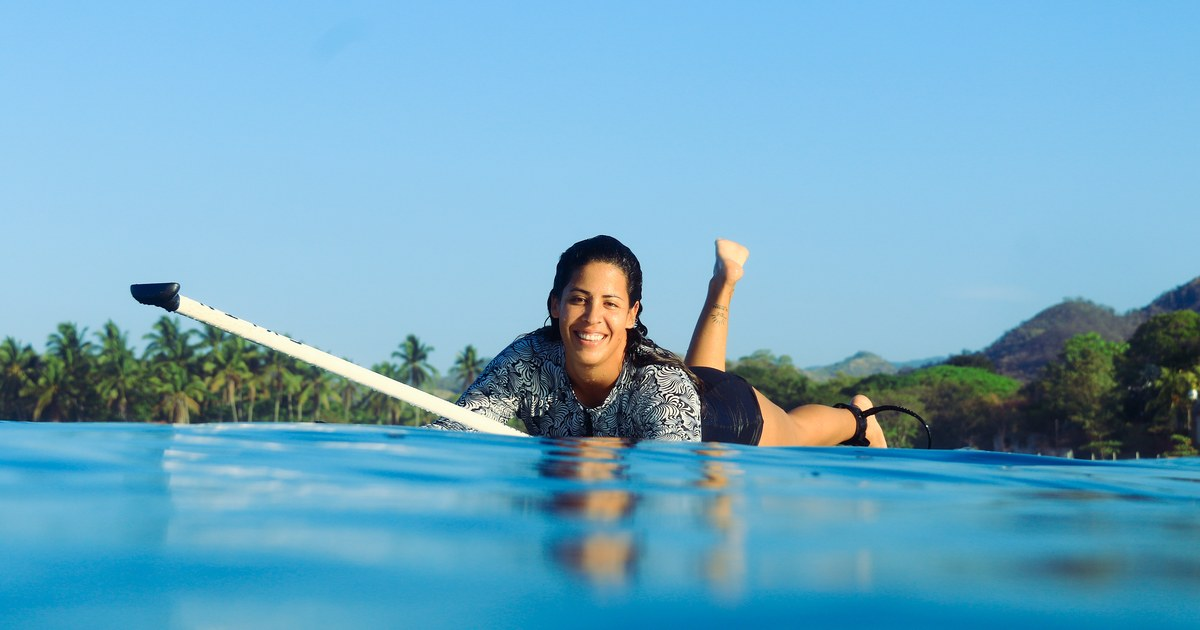
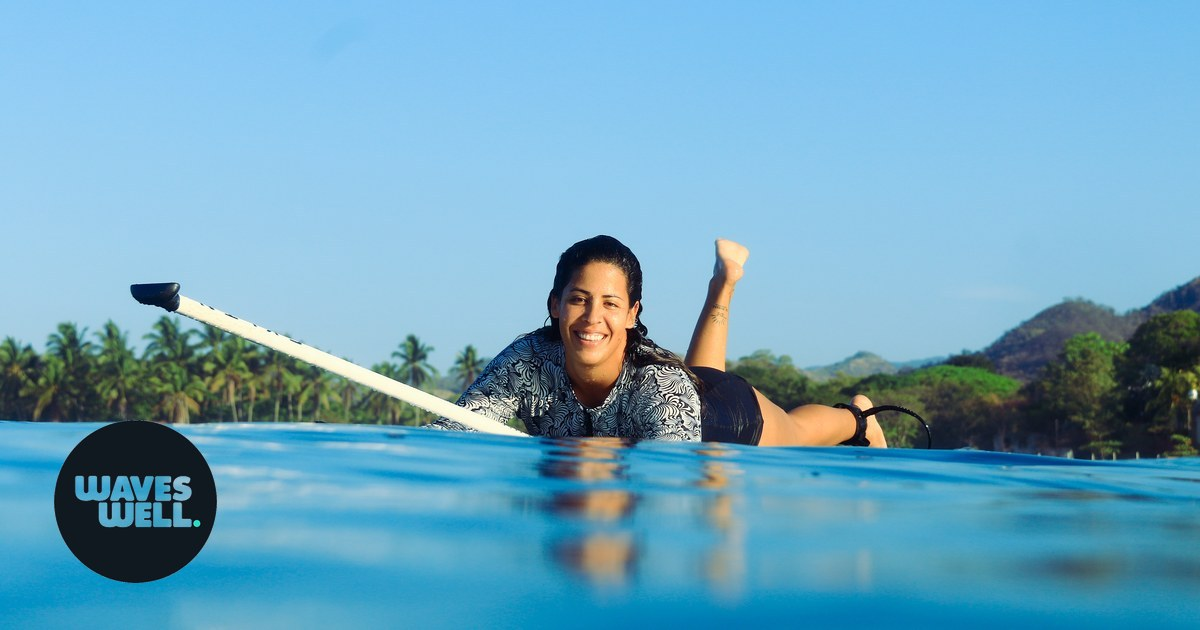
Findability: target SUP surf retreats, SUP surf rentals and stand up paddle in El Salvador
The site always wrote "stand up paddle" in full and never used the acronym
people actually type, so "SUP surf retreat" and "SUP rental" appeared zero
times in visible copy. Titles now lead with the acronym while the H1s keep
the spelled out form, so each page carries both. Meta descriptions, keyword
lists, one sentence of body copy per page and the internal link text follow.

The rentals side was the weakest of the three. The coaching page now names
the rental in its title, its pricing heading and its intro, the rental
service carries a real Offer at 75 dollars instead of a price buried in
prose, and a new FAQ answers whether you can rent without booking coaching.

llms.txt and llms-full.txt gain a short section that answers the three
questions directly, in the phrasing people use, which is what an assistant
quotes back.

Favicons were broken: dark artwork on a dark square, effectively invisible
at every size. They are rebuilt from the brand monogram, white on ink, and
are legible down to 16 pixels. The social share card gains the circular
lockup so a shared link is recognisable, and Google's search logo now
points at an opaque version rather than a transparent PNG.

Sitemap lastmod refreshed.

Claude-Session: https://claude.ai/code/session_01CtD6iaYUpoj4nYJVqYvbGF

Changed region(s): [[0.0308, 0.6635, 0.185, 0.9349]]

diff --git a/es/coaching.html b/es/coaching.html
@@ -4,9 +4,9 @@
 <meta charset="UTF-8">
 <meta name="viewport" content="width=device-width, initial-scale=1.0">
 
-<title>Coaching de SUP y alquiler de tablas en El Salvador</title>
-<meta name="description" content="Coaching privado de stand up paddle, dos horas al d&#237;a y sin m&#237;nimo. Principiantes bienvenidos. Alquiler de tabla y remo todo el a&#241;o en El Salvador.">
-<meta name="keywords" content="coaching de SUP El Salvador, alquiler de tablas de paddle El Salvador, clases de stand up paddle, coaching privado de surf, alquiler de tabla La Uni&#243;n, aprender stand up paddle">
+<title>Alquiler de SUP y coaching de paddle surf en El Salvador</title>
+<meta name="description" content="Alquiler de tablas de SUP y remo en El Salvador todo el a&#241;o, desde 75 d&#243;lares al d&#237;a, m&#225;s coaching privado de stand up paddle, dos horas al d&#237;a y sin m&#237;nimo.">
+<meta name="keywords" content="alquiler de SUP El Salvador, alquiler de tablas de SUP El Salvador, stand up paddle El Salvador, coaching de SUP El Salvador, alquiler de tablas de paddle El Salvador, clases de stand up paddle, coaching privado de surf, alquiler de tabla La Uni&#243;n, aprender stand up paddle">
 
 <link rel="canonical" href="https://waveswellretreats.com/es/coaching.html">
 <link rel="alternate" hreflang="en" href="https://waveswellretreats.com/coaching.html">
@@ -14,8 +14,8 @@
 <link rel="alternate" hreflang="es-SV" href="https://waveswellretreats.com/es/coaching.html">
 <link rel="alternate" hreflang="x-default" href="https://waveswellretreats.com/coaching.html">
 
-<meta property="og:title" content="Coaching de SUP y alquiler de tablas en El Salvador">
-<meta property="og:description" content="Coaching privado de stand up paddle, dos horas al d&#237;a y sin m&#237;nimo. Principiantes bienvenidos. Alquiler de tabla y remo todo el a&#241;o en El Salvador.">
+<meta property="og:title" content="Alquiler de SUP y coaching de paddle surf en El Salvador">
+<meta property="og:description" content="Alquiler de tablas de SUP y remo en El Salvador todo el a&#241;o, desde 75 d&#243;lares al d&#237;a, m&#225;s coaching privado de stand up paddle, dos horas al d&#237;a y sin m&#237;nimo.">
 <meta property="og:type" content="website">
 <meta property="og:url" content="https://waveswellretreats.com/es/coaching.html">
 <meta property="og:image" content="https://waveswellretreats.com/assets/images/social-share/social-share-waveswell-retreats-waveswellretreats.com.jpg">
@@ -25,8 +25,8 @@
 <meta property="og:locale" content="es_SV">
 <meta name="twitter:card" content="summary_large_image">
 <meta name="twitter:site" content="@JossAlabi">
-<meta name="twitter:title" content="Coaching de SUP y alquiler de tablas en El Salvador">
-<meta name="twitter:description" content="Coaching privado de stand up paddle, dos horas al d&#237;a y sin m&#237;nimo. Principiantes bienvenidos. Alquiler de tabla y remo todo el a&#241;o en El Salvador.">
+<meta name="twitter:title" content="Alquiler de SUP y coaching de paddle surf en El Salvador">
+<meta name="twitter:description" content="Alquiler de tablas de SUP y remo en El Salvador todo el a&#241;o, desde 75 d&#243;lares al d&#237;a, m&#225;s coaching privado de stand up paddle, dos horas al d&#237;a y sin m&#237;nimo.">
 <meta name="twitter:image" content="https://waveswellretreats.com/assets/images/social-share/social-share-waveswell-retreats-waveswellretreats.com.jpg">
 
 <meta name="robots" content="index, follow, max-image-preview:large, max-snippet:-1, max-video-preview:-1">
@@ -62,7 +62,8 @@
   "availableChannel":{"@type":"ServiceChannel","serviceUrl":"https://waveswellretreats.com/es/coaching.html"}},
  {"@type":"Service","@id":"https://waveswellretreats.com/es/coaching.html#rental",
   "name":"Stand up paddle board and paddle rental","serviceType":"Equipment rental",
-  "description":"SUP board and paddle rentals in El Salvador, from 75 US dollars a day, with a special rate for Waveswell retreat guests.",
+  "description":"SUP surf rentals in El Salvador: stand up paddle board and paddle, from 75 US dollars a day, all year round, with a special rate for Waveswell retreat guests.",
+  "offers":{"@type":"Offer","priceCurrency":"USD","price":"75","availability":"https://schema.org/InStock","url":"https://waveswellretreats.com/es/coaching.html#rentals"},
   "provider":{"@id":"https://waveswellretreats.com/#org"},
   "areaServed":{"@type":"Country","name":"El Salvador"}},
  {"@type":"WebPage","@id":"https://waveswellretreats.com/es/coaching.html#page",
@@ -70,7 +71,7 @@
   "isPartOf":{"@id":"https://waveswellretreats.com/#website"}}]}
 </script>
 <script type="application/ld+json">
-{"@context":"https://schema.org","@type":"FAQPage","@id":"https://waveswellretreats.com/es/coaching.html#faq","inLanguage":"es","mainEntity":[{"@type":"Question","name":"Nunca me he parado en una tabla de paddle. \u00bfPuedo empezar aqu\u00ed?","acceptedAnswer":{"@type":"Answer","text":"S\u00ed, y este es exactamente el lugar donde empezar. Cuando ya te pares con confianza pod\u00e9s sumarte a un retiro grupal."}},{"@type":"Question","name":"\u00bfCu\u00e1nto dura una sesi\u00f3n y cu\u00e1ntos d\u00edas necesito?","acceptedAnswer":{"@type":"Answer","text":"Dos horas al d\u00eda. No hay m\u00ednimo de d\u00edas, as\u00ed que pod\u00e9s tomar una sola sesi\u00f3n o dos semanas."}},{"@type":"Question","name":"\u00bfNecesito mi propia tabla?","acceptedAnswer":{"@type":"Answer","text":"No. Hay tablas y remos para alquilar."}},{"@type":"Question","name":"\u00bfEn qu\u00e9 \u00e9poca del a\u00f1o puedo tomar coaching?","acceptedAnswer":{"@type":"Answer","text":"Sobre todo de abril a octubre, cuando termina la temporada de retiros. Es tambi\u00e9n la temporada en la que las olas de El Salvador se ponen m\u00e1s grandes, con m\u00e1s fuerza y m\u00e1s perfectas. Se pueden hacer sesiones fuera de esa ventana alrededor de las fechas de retiro, con algunas restricciones. El alquiler funciona todo el a\u00f1o."}},{"@type":"Question","name":"\u00bfEs solo stand up paddle?","acceptedAnswer":{"@type":"Answer","text":"S\u00ed. Queremos a todos los surfistas, pero Waveswell ense\u00f1a stand up paddle surf, no tabla corta ni tabla larga."}}]}
+{"@context":"https://schema.org","@type":"FAQPage","@id":"https://waveswellretreats.com/es/coaching.html#faq","inLanguage":"es","mainEntity":[{"@type":"Question","name":"Nunca me he parado en una tabla de paddle. \u00bfPuedo empezar aqu\u00ed?","acceptedAnswer":{"@type":"Answer","text":"S\u00ed, y este es exactamente el lugar donde empezar. Cuando ya te pares con confianza pod\u00e9s sumarte a un retiro grupal."}},{"@type":"Question","name":"\u00bfCu\u00e1nto dura una sesi\u00f3n y cu\u00e1ntos d\u00edas necesito?","acceptedAnswer":{"@type":"Answer","text":"Dos horas al d\u00eda. No hay m\u00ednimo de d\u00edas, as\u00ed que pod\u00e9s tomar una sola sesi\u00f3n o dos semanas."}},{"@type":"Question","name":"\u00bfNecesito mi propia tabla?","acceptedAnswer":{"@type":"Answer","text":"No. Hay tablas y remos para alquilar."}},{"@type":"Question","name":"\u00bfEn qu\u00e9 \u00e9poca del a\u00f1o puedo tomar coaching?","acceptedAnswer":{"@type":"Answer","text":"Sobre todo de abril a octubre, cuando termina la temporada de retiros. Es tambi\u00e9n la temporada en la que las olas de El Salvador se ponen m\u00e1s grandes, con m\u00e1s fuerza y m\u00e1s perfectas. Se pueden hacer sesiones fuera de esa ventana alrededor de las fechas de retiro, con algunas restricciones. El alquiler funciona todo el a\u00f1o."}},{"@type":"Question","name":"\u00bfPuedo alquilar una tabla de SUP en El Salvador sin tomar coaching?","acceptedAnswer":{"@type":"Answer","text":"S\u00ed. El alquiler de tabla de SUP y remo funciona todo el a\u00f1o en El Salvador, desde 75 d\u00f3lares al d\u00eda, tom\u00e9s o no una sesi\u00f3n. Los hu\u00e9spedes de los retiros Waveswell tienen una tarifa especial."}},{"@type":"Question","name":"\u00bfEs solo stand up paddle?","acceptedAnswer":{"@type":"Answer","text":"S\u00ed. Queremos a todos los surfistas, pero Waveswell ense\u00f1a stand up paddle surf, no tabla corta ni tabla larga."}}]}
 </script>
 </head>
 <body>
@@ -153,8 +154,8 @@
     <div class="split">
       <div class="reveal">
         <span class="eyebrow">Precios</span>
-        <h2>Cu&#225;nto cuesta una sesi&#243;n</h2>
-        <p>El coaching se cobra por d&#237;a, por una sesi&#243;n de dos horas. El equipo se cobra aparte, salvo que traigas el tuyo.</p>
+        <h2>Precios de coaching y alquiler de SUP</h2>
+        <p>El coaching se cobra por d&#237;a, por una sesi&#243;n de dos horas. El alquiler de tabla de SUP y remo en El Salvador se cobra aparte, salvo que traigas el tuyo.</p>
         <div class="tablewrap" style="margin-top:1.4rem">
           <table class="data">
             <thead><tr><th>Qu&#233;</th><th>Precio</th><th>Notas</th></tr></thead>
@@ -197,6 +198,10 @@
       <details class="faq-item">
         <summary>&#191;En qu&#233; &#233;poca del a&#241;o puedo tomar coaching?</summary>
         <div class="faq-a"><p>Sobre todo de abril a octubre, cuando termina la temporada de retiros. Es tambi&#233;n la temporada en la que las olas de El Salvador se ponen m&#225;s grandes, con m&#225;s fuerza y m&#225;s perfectas. Se pueden hacer sesiones fuera de esa ventana alrededor de las fechas de retiro, con algunas restricciones. El alquiler funciona todo el a&#241;o.</p></div>
+      </details>
+      <details class="faq-item">
+        <summary>&#191;Puedo alquilar una tabla de SUP en El Salvador sin tomar coaching?</summary>
+        <div class="faq-a"><p>S&#237;. El alquiler de tabla de SUP y remo funciona todo el a&#241;o en El Salvador, desde 75 d&#243;lares al d&#237;a, tom&#233;s o no una sesi&#243;n. Los hu&#233;spedes de los retiros Waveswell tienen una tarifa especial.</p></div>
       </details>
       <details class="faq-item">
         <summary>&#191;Es solo stand up paddle?</summary>

diff --git a/index.html b/index.html
@@ -4,9 +4,9 @@
 <meta charset="UTF-8">
 <meta name="viewport" content="width=device-width, initial-scale=1.0">
 
-<title>Stand Up Paddle Surf Retreats in El Salvador | Waveswell</title>
-<meta name="description" content="You already paddle. Now learn to really ride the wave. Stand up paddle retreats in El Salvador, seven days, limited spots, all inclusive. See dates.">
-<meta name="keywords" content="stand up paddle retreat El Salvador, SUP surf retreat, paddle surf retreat, paddleboard retreat El Salvador, SUP coaching El Salvador, paddle board rentals El Salvador, retiro de stand up paddle El Salvador, surf retreat Central America, Joss Alabi, Waveswell Retreats, La Union El Salvador, La Libertad surf">
+<title>SUP Surf Retreats in El Salvador | Stand Up Paddle | Waveswell</title>
+<meta name="description" content="SUP surf retreats in El Salvador. You already paddle, now learn to really ride the wave. Seven days of stand up paddle surfing, limited spots, all inclusive.">
+<meta name="keywords" content="SUP surf retreats El Salvador, SUP surf rentals El Salvador, stand up paddle El Salvador, SUP El Salvador, stand up paddle retreat El Salvador, SUP surf retreat, paddle surf retreat, paddleboard retreat El Salvador, SUP coaching El Salvador, SUP board rental El Salvador, retiro de stand up paddle El Salvador, surf retreat Central America, Joss Alabi, Waveswell Retreats, La Union El Salvador, La Libertad surf">
 
 <link rel="canonical" href="https://waveswellretreats.com/">
 <link rel="alternate" hreflang="en" href="https://waveswellretreats.com/">
@@ -14,7 +14,7 @@
 <link rel="alternate" hreflang="es-SV" href="https://waveswellretreats.com/es/">
 <link rel="alternate" hreflang="x-default" href="https://waveswellretreats.com/">
 
-<meta property="og:title" content="Stand Up Paddle Surf Retreats in El Salvador">
+<meta property="og:title" content="SUP Surf Retreats in El Salvador | Stand Up Paddle">
 <meta property="og:description" content="Seven days of stand up paddle surfing in El Salvador with a World Championship SUP competitor. Limited spots, video analysis, warm water all year.">
 <meta property="og:type" content="website">
 <meta property="og:url" content="https://waveswellretreats.com/">
@@ -29,7 +29,7 @@
 <meta name="twitter:card" content="summary_large_image">
 <meta name="twitter:site" content="@JossAlabi">
 <meta name="twitter:creator" content="@JossAlabi">
-<meta name="twitter:title" content="Stand Up Paddle Surf Retreats in El Salvador">
+<meta name="twitter:title" content="SUP Surf Retreats in El Salvador | Stand Up Paddle">
 <meta name="twitter:description" content="Seven days of stand up paddle surfing in El Salvador with a World Championship SUP competitor. Limited spots, video analysis, warm water all year.">
 <meta name="twitter:image" content="https://waveswellretreats.com/assets/images/social-share/social-share-waveswell-retreats-waveswellretreats.com.jpg">
 
@@ -67,13 +67,13 @@
       "name": "Waveswell Retreats",
       "alternateName": ["Waveswell", "Waveswell Retreat"],
       "url": "https://waveswellretreats.com/",
-      "logo": "https://waveswellretreats.com/assets/images/logos/logo-waveswell-retreats-waveswellretreats.com.png",
+      "logo": "https://waveswellretreats.com/assets/images/logos/logo-google-waveswell-retreats-waveswellretreats.com.png",
       "image": "https://waveswellretreats.com/assets/images/social-share/social-share-waveswell-retreats-waveswellretreats.com.jpg",
       "slogan": "Learn to surf the wave the way you imagined it as a kid.",
       "description": "Waveswell Retreats runs seven day stand up paddle surf retreats in El Salvador for adults who already stand on the board and want to actually surf. Limited spots, video analysis of every session, and one to one high performance coaching with Josselyn Alabi, a professional paddle surfer who has represented El Salvador across nearly three Olympic cycles. The retreats support Mar de Suenos, the social project Josselyn Alabi founded for children on the Salvadoran coast.",
       "areaServed": ["SV", "US", "CA"],
       "knowsLanguage": ["en", "es"],
-      "knowsAbout": ["Stand up paddle surfing", "SUP surf coaching", "Surf retreats in El Salvador", "High performance sports coaching", "Paddle board rentals", "Video analysis coaching"],
+      "knowsAbout": ["SUP surf retreats in El Salvador", "SUP surf rentals in El Salvador", "Stand up paddle in El Salvador", "Stand up paddle surfing", "SUP surf coaching", "Surf retreats in El Salvador", "High performance sports coaching", "Paddle board rentals", "Video analysis coaching"],
       "email": "jossalabi@waveswellretreats.com",
       "telephone": "+50378009672",
       "contactPoint": {"@type":"ContactPoint","telephone":"+50378009672","email":"jossalabi@waveswellretreats.com","contactType":"sales","areaServed":["SV","US","CA"],"availableLanguage":["en","es"]},
@@ -100,7 +100,7 @@
       "parentOrganization": {"@id": "https://waveswellretreats.com/#org"},
       "description": "Seven day stand up paddle surf retreats and one to one SUP coaching in El Salvador, plus paddle board and paddle rentals.",
       "image": "https://waveswellretreats.com/assets/images/social-share/social-share-waveswell-retreats-waveswellretreats.com.jpg",
-      "logo": "https://waveswellretreats.com/assets/images/logos/logo-waveswell-retreats-waveswellretreats.com.png",
+      "logo": "https://waveswellretreats.com/assets/images/logos/logo-google-waveswell-retreats-waveswellretreats.com.png",
       "url": "https://waveswellretreats.com/",
       "email": "jossalabi@waveswellretreats.com",
       "telephone": "+50378009672",
@@ -108,7 +108,7 @@
       "currenciesAccepted": "USD",
       "address": {"@type":"PostalAddress","addressCountry":"SV","addressRegion":"La Union","addressLocality":"La Union"},
       "areaServed": [{"@type":"Country","name":"El Salvador"}],
-      "serviceType": ["Stand up paddle surf retreat","One to one SUP surf coaching","Paddle board rental"],
+      "serviceType": ["SUP surf retreat","Stand up paddle surf retreat","One to one SUP surf coaching","SUP surf rental","Paddle board rental"],
       "hasOfferCatalog": {"@id": "https://waveswellretreats.com/#catalog"}
     },
     {
@@ -226,7 +226,7 @@
     <div class="answer reveal">
       <span class="eyebrow">What this is</span>
       <h2>What is the Waveswell Retreat?</h2>
-      <p>The Waveswell Retreat is seven days and six nights of stand up paddle surfing in El Salvador, for SUP surfers who want to genuinely ride great waves. Spots are limited, usually six of us, and every session is filmed and reviewed together.</p>
+      <p>The Waveswell Retreat is a seven day SUP surf retreat in El Salvador: six nights of stand up paddle surfing, for SUP surfers who want to genuinely ride great waves. Spots are limited, usually six of us, and every session is filmed and reviewed together.</p>
       <p>What sets this apart is all of it at once. The waves and the warm water are reason enough to come here, and on top of that you get high performance tools from an athlete with more than fifteen years across many water sports. Somewhere in the week we sit down one to one and work through the beliefs that are quietly limiting what your body will let you do.</p>
       <p>Everything on the ground is covered: your room, every meal, all your surf sessions, the video analysis, the tours and your airport transfers. Retreats run from November to March.</p>
     </div>
@@ -302,7 +302,7 @@
           <li>You want shortboard or longboard surfing. We love all surfers, but in this case SUP surfers are our tribe</li>
           <li>You want a party week. This is early morning, good food and a lot of water time. We want it to feel like a party every day in the water, so the night parties might need to wait</li>
           </ul>
-        <p style="margin-top:1.3rem;font-size:.95rem"><strong>Never been on a board?</strong> That is completely fine, and it is not a no. <a href="coaching.html">Book one to one coaching</a> first, get to where you can stand reliably, and come back for a retreat.</p>
+        <p style="margin-top:1.3rem;font-size:.95rem"><strong>Never been on a board?</strong> That is completely fine, and it is not a no. <a href="coaching.html">Book one to one SUP coaching</a> first, get to where you can stand reliably, and come back for a retreat.</p>
       </div>
     </div>
   </div>
@@ -413,7 +413,7 @@
         <span class="eyebrow">Coaching season</span>
         <div class="season__months">April to October</div>
         <p>One to one coaching on your own dates, two hours a day, no minimum number of days. The waves in El Salvador get bigger, with extra power and more perfect shape. It is the moment to challenge yourself, with the support of an expert, in a private way.</p>
-        <div class="btns"><a class="btn btn--onphoto btn--sm" href="coaching.html">Coaching and rentals</a></div>
+        <div class="btns"><a class="btn btn--onphoto btn--sm" href="coaching.html">SUP coaching and board rentals</a></div>
       </div>
     </div>
   </div>

diff --git a/coaching.html b/coaching.html
@@ -4,9 +4,9 @@
 <meta charset="UTF-8">
 <meta name="viewport" content="width=device-width, initial-scale=1.0">
 
-<title>SUP Coaching and Paddle Board Rentals in El Salvador</title>
-<meta name="description" content="Private stand up paddle coaching, two hours a day with no minimum. Beginners welcome. Board and paddle rental all year. Book your dates in El Salvador.">
-<meta name="keywords" content="SUP coaching El Salvador, paddle board rentals El Salvador, stand up paddle lessons El Salvador, private surf coaching, paddle board rental La Union, learn stand up paddle">
+<title>SUP Surf Rentals and Coaching in El Salvador | Waveswell</title>
+<meta name="description" content="SUP board and paddle rentals in El Salvador all year, from 75 dollars a day, plus private stand up paddle coaching, two hours a day with no minimum. Beginners welcome.">
+<meta name="keywords" content="SUP surf rentals El Salvador, SUP board rental El Salvador, stand up paddle El Salvador, SUP coaching El Salvador, paddle board rentals El Salvador, stand up paddle lessons El Salvador, private surf coaching, paddle board rental La Union, learn stand up paddle">
 
 <link rel="canonical" href="https://waveswellretreats.com/coaching.html">
 <link rel="alternate" hreflang="en" href="https://waveswellretreats.com/coaching.html">
@@ -14,8 +14,8 @@
 <link rel="alternate" hreflang="es-SV" href="https://waveswellretreats.com/es/coaching.html">
 <link rel="alternate" hreflang="x-default" href="https://waveswellretreats.com/coaching.html">
 
-<meta property="og:title" content="SUP Coaching and Paddle Board Rentals in El Salvador">
-<meta property="og:description" content="Private stand up paddle coaching, two hours a day with no minimum. Beginners welcome. Board and paddle rental all year. Book your dates in El Salvador.">
+<meta property="og:title" content="SUP Surf Rentals and Coaching in El Salvador | Waveswell">
+<meta property="og:description" content="SUP board and paddle rentals in El Salvador all year, from 75 dollars a day, plus private stand up paddle coaching, two hours a day with no minimum. Beginners welcome.">
 <meta property="og:type" content="website">
 <meta property="og:url" content="https://waveswellretreats.com/coaching.html">
 <meta property="og:image" content="https://waveswellretreats.com/assets/images/social-share/social-share-waveswell-retreats-waveswellretreats.com.jpg">
@@ -25,8 +25,8 @@
 <meta property="og:locale" content="en_US">
 <meta name="twitter:card" content="summary_large_image">
 <meta name="twitter:site" content="@JossAlabi">
-<meta name="twitter:title" content="SUP Coaching and Paddle Board Rentals in El Salvador">
-<meta name="twitter:description" content="Private stand up paddle coaching, two hours a day with no minimum. Beginners welcome. Board and paddle rental all year. Book your dates in El Salvador.">
+<meta name="twitter:title" content="SUP Surf Rentals and Coaching in El Salvador | Waveswell">
+<meta name="twitter:description" content="SUP board and paddle rentals in El Salvador all year, from 75 dollars a day, plus private stand up paddle coaching, two hours a day with no minimum. Beginners welcome.">
 <meta name="twitter:image" content="https://waveswellretreats.com/assets/images/social-share/social-share-waveswell-retreats-waveswellretreats.com.jpg">
 
 <meta name="robots" content="index, follow, max-image-preview:large, max-snippet:-1, max-video-preview:-1">
@@ -62,7 +62,8 @@
   "availableChannel":{"@type":"ServiceChannel","serviceUrl":"https://waveswellretreats.com/coaching.html"}},
  {"@type":"Service","@id":"https://waveswellretreats.com/coaching.html#rental",
   "name":"Stand up paddle board and paddle rental","serviceType":"Equipment rental",
-  "description":"SUP board and paddle rentals in El Salvador, from 75 US dollars a day, with a special rate for Waveswell retreat guests.",
+  "description":"SUP surf rentals in El Salvador: stand up paddle board and paddle, from 75 US dollars a day, all year round, with a special rate for Waveswell retreat guests.",
+  "offers":{"@type":"Offer","priceCurrency":"USD","price":"75","availability":"https://schema.org/InStock","url":"https://waveswellretreats.com/coaching.html#rentals"},
   "provider":{"@id":"https://waveswellretreats.com/#org"},
   "areaServed":{"@type":"Country","name":"El Salvador"}},
  {"@type":"WebPage","@id":"https://waveswellretreats.com/coaching.html#page",
@@ -70,7 +71,7 @@
   "isPartOf":{"@id":"https://waveswellretreats.com/#website"}}]}
 </script>
 <script type="application/ld+json">
-{"@context":"https://schema.org","@type":"FAQPage","@id":"https://waveswellretreats.com/coaching.html#faq","inLanguage":"en","mainEntity":[{"@type":"Question","name":"I have never stood on a paddle board. Can I start here?","acceptedAnswer":{"@type":"Answer","text":"Yes, and this is exactly where to start. Once you can stand reliably you can join a group retreat."}},{"@type":"Question","name":"How long is a session and how many days do I need?","acceptedAnswer":{"@type":"Answer","text":"Two hours a day. There is no minimum number of days, so you can book one session or two weeks."}},{"@type":"Question","name":"Do I need my own board?","acceptedAnswer":{"@type":"Answer","text":"No. Boards and paddles are available to rent."}},{"@type":"Question","name":"What time of year can I book coaching?","acceptedAnswer":{"@type":"Answer","text":"Mainly April to October, when the retreat season is over. Sessions outside that window are possible around the retreat dates, with some restrictions. Rentals run all year."}},{"@type":"Question","name":"Is this stand up paddle only?","acceptedAnswer":{"@type":"Answer","text":"Yes. Waveswell coaches stand up paddle surf, not shortboard or longboard surfing."}}]}
+{"@context":"https://schema.org","@type":"FAQPage","@id":"https://waveswellretreats.com/coaching.html#faq","inLanguage":"en","mainEntity":[{"@type":"Question","name":"I have never stood on a paddle board. Can I start here?","acceptedAnswer":{"@type":"Answer","text":"Yes, and this is exactly where to start. Once you can stand reliably you can join a group retreat."}},{"@type":"Question","name":"How long is a session and how many days do I need?","acceptedAnswer":{"@type":"Answer","text":"Two hours a day. There is no minimum number of days, so you can book one session or two weeks."}},{"@type":"Question","name":"Do I need my own board?","acceptedAnswer":{"@type":"Answer","text":"No. Boards and paddles are available to rent."}},{"@type":"Question","name":"What time of year can I book coaching?","acceptedAnswer":{"@type":"Answer","text":"Mainly April to October, when the retreat season is over. Sessions outside that window are possible around the retreat dates, with some restrictions. Rentals run all year."}},{"@type":"Question","name":"Can I rent a SUP board in El Salvador without booking coaching?","acceptedAnswer":{"@type":"Answer","text":"Yes. SUP board and paddle rentals run all year in El Salvador, from 75 dollars a day, whether or not you book a session. Waveswell retreat guests get a special rate."}},{"@type":"Question","name":"Is this stand up paddle only?","acceptedAnswer":{"@type":"Answer","text":"Yes. Waveswell coaches stand up paddle surf, not shortboard or longboard surfing."}}]}
 </script>
 </head>
 <body>
@@ -153,8 +154,8 @@
     <div class="split">
       <div class="reveal">
         <span class="eyebrow">Pricing</span>
-        <h2>What a session costs</h2>
-        <p>Coaching is charged per day, for a two hour session. Equipment is charged separately unless you bring your own.</p>
+        <h2>Coaching and SUP rental rates</h2>
+        <p>Coaching is charged per day, for a two hour session. SUP board and paddle rental in El Salvador is charged separately, unless you bring your own.</p>
         <div class="tablewrap" style="margin-top:1.4rem">
           <table class="data">
             <thead><tr><th>What</th><th>Price</th><th>Notes</th></tr></thead>
@@ -197,6 +198,10 @@
       <details class="faq-item">
         <summary>What time of year can I book coaching?</summary>
         <div class="faq-a"><p>Mainly April to October, when the retreat season is over. Sessions outside that window are possible around the retreat dates, with some restrictions. Rentals run all year.</p></div>
+      </details>
+      <details class="faq-item">
+        <summary>Can I rent a SUP board in El Salvador without booking coaching?</summary>
+        <div class="faq-a"><p>Yes. SUP board and paddle rentals run all year in El Salvador, from 75 dollars a day, whether or not you book a session. Waveswell retreat guests get a special rate.</p></div>
       </details>
       <details class="faq-item">
         <summary>Is this stand up paddle only?</summary>

diff --git a/es/index.html b/es/index.html
@@ -4,9 +4,9 @@
 <meta charset="UTF-8">
 <meta name="viewport" content="width=device-width, initial-scale=1.0">
 
-<title>Retiros de Stand Up Paddle Surf en El Salvador | Waveswell</title>
-<meta name="description" content="Ya te parás en la tabla. Ahora aprendé a surfear la ola de verdad. Retiros de stand up paddle en El Salvador, siete días, cupos limitados, todo incluido.">
-<meta name="keywords" content="retiro de stand up paddle El Salvador, retiro de surf El Salvador, paddle surf El Salvador, clases de stand up paddle, coaching de paddle surf, alquiler de tablas de paddle El Salvador, retiro de surf Centroamérica, Joss Alabi, Waveswell Retreats, La Unión, La Libertad">
+<title>Retiros de SUP Surf en El Salvador | Stand Up Paddle</title>
+<meta name="description" content="Retiros de SUP surf en El Salvador. Ya te parás en la tabla, ahora aprendé a surfear la ola de verdad. Siete días de stand up paddle, cupos limitados, todo incluido.">
+<meta name="keywords" content="retiros de SUP surf El Salvador, alquiler de SUP El Salvador, stand up paddle El Salvador, SUP El Salvador, retiro de stand up paddle El Salvador, retiro de surf El Salvador, paddle surf El Salvador, clases de stand up paddle, coaching de paddle surf, alquiler de tablas de paddle El Salvador, retiro de surf Centroamérica, Joss Alabi, Waveswell Retreats, La Unión, La Libertad">
 
 <link rel="canonical" href="https://waveswellretreats.com/es/">
 <link rel="alternate" hreflang="en" href="https://waveswellretreats.com/">
@@ -14,7 +14,7 @@
 <link rel="alternate" hreflang="es-SV" href="https://waveswellretreats.com/es/">
 <link rel="alternate" hreflang="x-default" href="https://waveswellretreats.com/">
 
-<meta property="og:title" content="Retiros de stand up paddle surf en El Salvador">
+<meta property="og:title" content="Retiros de SUP surf en El Salvador | Stand up paddle">
 <meta property="og:description" content="Competidora mundialista de SUP. Siete días de stand up paddle surf en El Salvador, videoanálisis y agua tibia todo el año. Cupos limitados.">
 <meta property="og:type" content="website">
 <meta property="og:url" content="https://waveswellretreats.com/es/">
@@ -29,7 +29,7 @@
 <meta name="twitter:card" content="summary_large_image">
 <meta name="twitter:site" content="@JossAlabi">
 <meta name="twitter:creator" content="@JossAlabi">
-<meta name="twitter:title" content="Retiros de stand up paddle surf en El Salvador">
+<meta name="twitter:title" content="Retiros de SUP surf en El Salvador | Stand up paddle">
 <meta name="twitter:description" content="Competidora mundialista de SUP. Siete días de stand up paddle surf en El Salvador, videoanálisis y agua tibia todo el año. Cupos limitados.">
 <meta name="twitter:image" content="https://waveswellretreats.com/assets/images/social-share/social-share-waveswell-retreats-waveswellretreats.com.jpg">
 
@@ -67,13 +67,13 @@
       "name": "Waveswell Retreats",
       "alternateName": ["Waveswell", "Waveswell Retreat"],
       "url": "https://waveswellretreats.com/",
-      "logo": "https://waveswellretreats.com/assets/images/logos/logo-waveswell-retreats-waveswellretreats.com.png",
+      "logo": "https://waveswellretreats.com/assets/images/logos/logo-google-waveswell-retreats-waveswellretreats.com.png",
       "image": "https://waveswellretreats.com/assets/images/social-share/social-share-waveswell-retreats-waveswellretreats.com.jpg",
       "slogan": "Aprende a surfear la ola como te la imaginabas de niño.",
       "description": "Waveswell Retreats realiza retiros de stand up paddle surf de siete días en El Salvador para adultos que ya se paran en la tabla y quieren de verdad surfear. Cupos limitados, videoanálisis de cada sesión y coaching de alto rendimiento uno a uno con Josselyn Alabi, surfista profesional de paddle que ha representado a El Salvador durante casi tres ciclos olímpicos. Los retiros apoyan a Mar de Sueños, el proyecto social que Josselyn Alabi fundó para la niñez de la costa salvadoreña.",
       "areaServed": ["SV", "US", "CA"],
       "knowsLanguage": ["en", "es"],
-      "knowsAbout": ["Stand up paddle surf", "Coaching de paddle surf", "Retiros de surf en El Salvador", "Coaching deportivo de alto rendimiento", "Alquiler de tablas de paddle", "Videoanálisis deportivo"],
+      "knowsAbout": ["Retiros de SUP surf en El Salvador", "Alquiler de SUP en El Salvador", "Stand up paddle en El Salvador", "Stand up paddle surf", "Coaching de paddle surf", "Retiros de surf en El Salvador", "Coaching deportivo de alto rendimiento", "Alquiler de tablas de paddle", "Videoanálisis deportivo"],
       "email": "jossalabi@waveswellretreats.com",
       "telephone": "+50378009672",
       "contactPoint": {"@type":"ContactPoint","telephone":"+50378009672","email":"jossalabi@waveswellretreats.com","contactType":"sales","areaServed":["SV","US","CA"],"availableLanguage":["en","es"]},
@@ -100,7 +100,7 @@
       "parentOrganization": {"@id": "https://waveswellretreats.com/#org"},
       "description": "Retiros de stand up paddle surf de siete días y coaching privado de SUP en El Salvador, además de alquiler de tablas y remos.",
       "image": "https://waveswellretreats.com/assets/images/social-share/social-share-waveswell-retreats-waveswellretreats.com.jpg",
-      "logo": "https://waveswellretreats.com/assets/images/logos/logo-waveswell-retreats-waveswellretreats.com.png",
+      "logo": "https://waveswellretreats.com/assets/images/logos/logo-google-waveswell-retreats-waveswellretreats.com.png",
       "url": "https://waveswellretreats.com/es/",
       "email": "jossalabi@waveswellretreats.com",
       "telephone": "+50378009672",
@@ -108,7 +108,7 @@
       "currenciesAccepted": "USD",
       "address": {"@type":"PostalAddress","addressCountry":"SV","addressRegion":"La Unión","addressLocality":"La Unión"},
       "areaServed": [{"@type":"Country","name":"El Salvador"}],
-      "serviceType": ["Retiro de stand up paddle surf","Coaching uno a uno de paddle surf","Alquiler de tabla de paddle"],
+      "serviceType": ["Retiro de SUP surf","Alquiler de SUP","Retiro de stand up paddle surf","Coaching uno a uno de paddle surf","Alquiler de tabla de paddle"],
       "hasOfferCatalog": {"@id": "https://waveswellretreats.com/#catalog"}
     },
     {
@@ -217,7 +217,7 @@
     <div class="answer reveal">
       <span class="eyebrow">De qu&#233; se trata</span>
       <h2>&#191;Qu&#233; es el retiro Waveswell?</h2>
-      <p>El retiro Waveswell son siete d&#237;as y seis noches de stand up paddle surf en El Salvador, para surfistas de SUP que quieren de verdad surfear buenas olas. Los cupos son limitados, normalmente somos seis, y cada sesi&#243;n queda grabada y la revisamos juntos.</p>
+      <p>El retiro Waveswell es un retiro de SUP surf en El Salvador: siete d&#237;as y seis noches de stand up paddle surf, para surfistas de SUP que quieren de verdad surfear buenas olas. Los cupos son limitados, normalmente somos seis, y cada sesi&#243;n queda grabada y la revisamos juntos.</p>
       <p>Lo que lo hace distinto es todo junto. Las olas y el agua tibia ya son raz&#243;n suficiente para venir, y encima ten&#233;s herramientas de alto rendimiento de una atleta con m&#225;s de quince a&#241;os en muchos deportes de agua. En alg&#250;n momento de la semana nos sentamos uno a uno a trabajar las creencias que en silencio est&#225;n limitando lo que tu cuerpo se permite hacer.</p>
       <p>Todo lo que pasa aqu&#237; est&#225; cubierto: tu habitaci&#243;n, toda la comida, todas las sesiones de surf, el videoan&#225;lisis, los tours y los traslados del aeropuerto. Los retiros van de noviembre a marzo.</p>
     </div>

diff --git a/es/retreat.html b/es/retreat.html
@@ -4,9 +4,9 @@
 <meta charset="UTF-8">
 <meta name="viewport" content="width=device-width, initial-scale=1.0">
 
-<title>El retiro Waveswell, 7 d&#237;as de paddle surf en El Salvador</title>
-<meta name="description" content="Siete d&#237;as, seis noches, cupos limitados. Coaching, videoan&#225;lisis, comidas, tours y traslados incluidos. Ver las fechas confirmadas.">
-<meta name="keywords" content="retiro de stand up paddle El Salvador, retiro de surf El Salvador, paddle surf El Salvador, Punta Mango, Las Flores, Macul&#237;s, Playa Blanca, La Uni&#243;n, Joss Alabi">
+<title>Retiro de SUP surf en El Salvador: 7 d&#237;as | Waveswell</title>
+<meta name="description" content="Un retiro de SUP surf en El Salvador de siete d&#237;as. Seis noches, cupos limitados. Coaching, videoan&#225;lisis, comidas, tours y traslados incluidos. Ver las fechas.">
+<meta name="keywords" content="retiros de SUP surf El Salvador, stand up paddle El Salvador, retiro de stand up paddle El Salvador, retiro de surf El Salvador, paddle surf El Salvador, Punta Mango, Las Flores, Macul&#237;s, Playa Blanca, La Uni&#243;n, Joss Alabi">
 
 <link rel="canonical" href="https://waveswellretreats.com/es/retreat.html">
 <link rel="alternate" hreflang="en" href="https://waveswellretreats.com/retreat.html">
@@ -14,8 +14,8 @@
 <link rel="alternate" hreflang="es-SV" href="https://waveswellretreats.com/es/retreat.html">
 <link rel="alternate" hreflang="x-default" href="https://waveswellretreats.com/retreat.html">
 
-<meta property="og:title" content="El retiro Waveswell, 7 d&#237;as de paddle surf en El Salvador">
-<meta property="og:description" content="Siete d&#237;as, seis noches, cupos limitados. Coaching, videoan&#225;lisis, comidas, tours y traslados incluidos. Ver las fechas confirmadas.">
+<meta property="og:title" content="Retiro de SUP surf en El Salvador: 7 d&#237;as | Waveswell">
+<meta property="og:description" content="Un retiro de SUP surf en El Salvador de siete d&#237;as. Seis noches, cupos limitados. Coaching, videoan&#225;lisis, comidas, tours y traslados incluidos. Ver las fechas.">
 <meta property="og:type" content="website">
 <meta property="og:url" content="https://waveswellretreats.com/es/retreat.html">
 <meta property="og:image" content="https://waveswellretreats.com/assets/images/social-share/social-share-waveswell-retreats-waveswellretreats.com.jpg">
@@ -25,8 +25,8 @@
 <meta property="og:locale" content="es_SV">
 <meta name="twitter:card" content="summary_large_image">
 <meta name="twitter:site" content="@JossAlabi">
-<meta name="twitter:title" content="El retiro Waveswell, 7 d&#237;as de paddle surf en El Salvador">
-<meta name="twitter:description" content="Siete d&#237;as, seis noches, cupos limitados. Coaching, videoan&#225;lisis, comidas, tours y traslados incluidos. Ver las fechas confirmadas.">
+<meta name="twitter:title" content="Retiro de SUP surf en El Salvador: 7 d&#237;as | Waveswell">
+<meta name="twitter:description" content="Un retiro de SUP surf en El Salvador de siete d&#237;as. Seis noches, cupos limitados. Coaching, videoan&#225;lisis, comidas, tours y traslados incluidos. Ver las fechas.">
 <meta name="twitter:image" content="https://waveswellretreats.com/assets/images/social-share/social-share-waveswell-retreats-waveswellretreats.com.jpg">
 
 <meta name="robots" content="index, follow, max-image-preview:large, max-snippet:-1, max-video-preview:-1">

diff --git a/retreat.html b/retreat.html
@@ -4,9 +4,9 @@
 <meta charset="UTF-8">
 <meta name="viewport" content="width=device-width, initial-scale=1.0">
 
-<title>The Waveswell Retreat, 7 Days of SUP Surf in El Salvador</title>
-<meta name="description" content="Seven days, six nights, limited spots. Coaching, video analysis, meals, tours and airport transfers included. See the confirmed dates.">
-<meta name="keywords" content="stand up paddle retreat El Salvador, SUP surf retreat, paddle surf retreat, Punta Mango, Las Flores, Maculis, Playa Blanca, La Union El Salvador, seven day surf retreat, Joss Alabi">
+<title>SUP Surf Retreat in El Salvador: 7 Days | Waveswell</title>
+<meta name="description" content="A seven day SUP surf retreat in El Salvador. Six nights, limited spots. Coaching, video analysis, meals, tours and airport transfers included. See the dates.">
+<meta name="keywords" content="SUP surf retreats El Salvador, SUP surf retreat, stand up paddle El Salvador, stand up paddle retreat El Salvador, paddle surf retreat, Punta Mango, Las Flores, Maculis, Playa Blanca, La Union El Salvador, seven day surf retreat, Joss Alabi">
 
 <link rel="canonical" href="https://waveswellretreats.com/retreat.html">
 <link rel="alternate" hreflang="en" href="https://waveswellretreats.com/retreat.html">
@@ -14,8 +14,8 @@
 <link rel="alternate" hreflang="es-SV" href="https://waveswellretreats.com/es/retreat.html">
 <link rel="alternate" hreflang="x-default" href="https://waveswellretreats.com/retreat.html">
 
-<meta property="og:title" content="The Waveswell Retreat, 7 Days of SUP Surf in El Salvador">
-<meta property="og:description" content="Seven days, six nights, limited spots. Coaching, video analysis, meals, tours and airport transfers included. See the confirmed dates.">
+<meta property="og:title" content="SUP Surf Retreat in El Salvador: 7 Days | Waveswell">
+<meta property="og:description" content="A seven day SUP surf retreat in El Salvador. Six nights, limited spots. Coaching, video analysis, meals, tours and airport transfers included. See the dates.">
 <meta property="og:type" content="website">
 <meta property="og:url" content="https://waveswellretreats.com/retreat.html">
 <meta property="og:image" content="https://waveswellretreats.com/assets/images/social-share/social-share-waveswell-retreats-waveswellretreats.com.jpg">
@@ -25,8 +25,8 @@
 <meta property="og:locale" content="en_US">
 <meta name="twitter:card" content="summary_large_image">
 <meta name="twitter:site" content="@JossAlabi">
-<meta name="twitter:title" content="The Waveswell Retreat, 7 Days of SUP Surf in El Salvador">
-<meta name="twitter:description" content="Seven days, six nights, limited spots. Coaching, video analysis, meals, tours and airport transfers included. See the confirmed dates.">
+<meta name="twitter:title" content="SUP Surf Retreat in El Salvador: 7 Days | Waveswell">
+<meta name="twitter:description" content="A seven day SUP surf retreat in El Salvador. Six nights, limited spots. Coaching, video analysis, meals, tours and airport transfers included. See the dates.">
 <meta name="twitter:image" content="https://waveswellretreats.com/assets/images/social-share/social-share-waveswell-retreats-waveswellretreats.com.jpg">
 
 <meta name="robots" content="index, follow, max-image-preview:large, max-snippet:-1, max-video-preview:-1">
